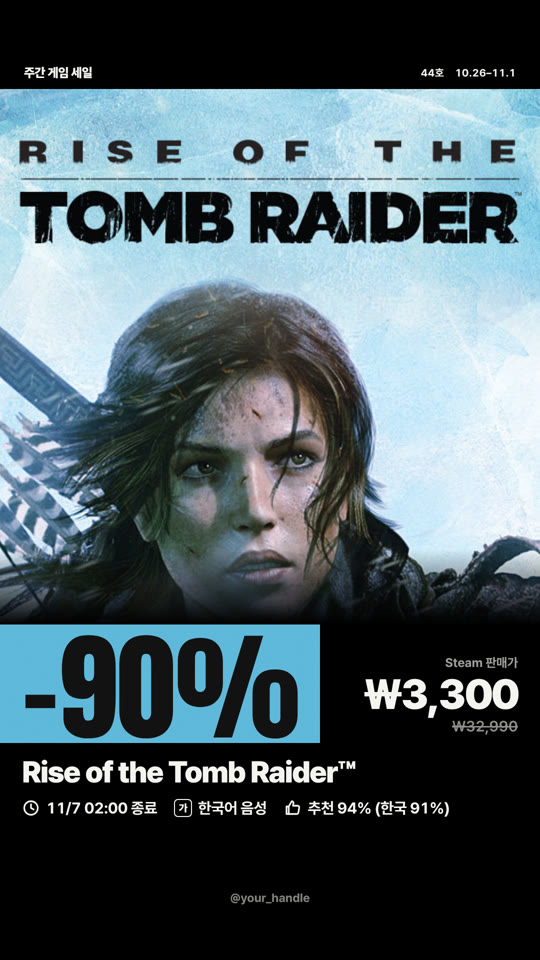
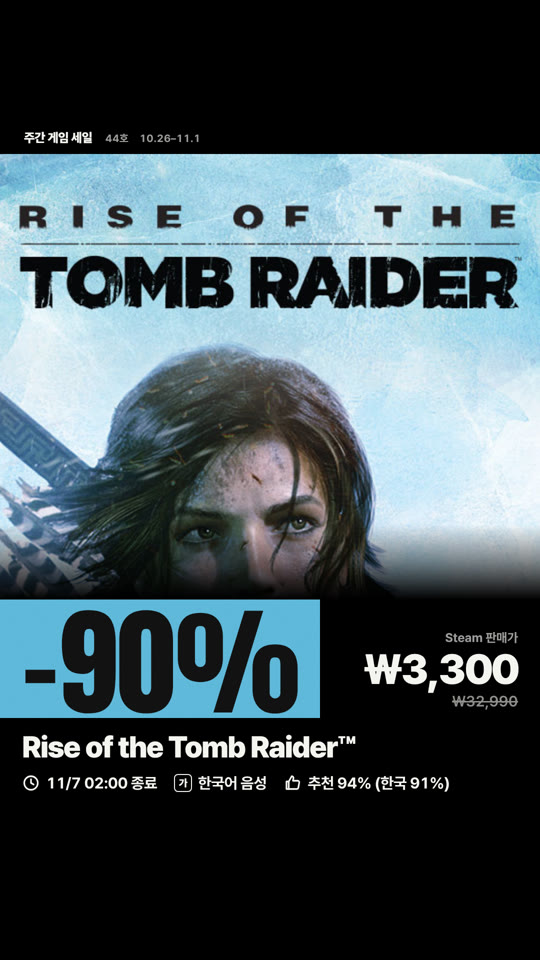
Keep text out of Instagram UI zones
- Feed: credit line moved left (carousel counter sits top-right), cover
  handle raised above the video mute button, slide numbers removed
- Story: content kept below the top 250px and above the bottom 300px
- Reel: content within y 250-1400 and clear of the right icon column;
  removed fake progress bars, shine, middle-dot meta and verdict label
- scripts/check_safe_zones.py overlays the UI zones for review
- dealbot-design skill: safe-zone table and checklist item

Claude-Session: https://claude.ai/code/session_01NNdjnt6woEzMNAanooBr28

diff --git a/scripts/check_safe_zones.py b/scripts/check_safe_zones.py
@@ -1,0 +1,21 @@
+"""인스타 UI 가 덮는 영역(대략)을 빨갛게 칠해 겹침을 확인한다.
+
+사용: python scripts/check_safe_zones.py feed|story|reel 입력.jpg 출력.jpg  (릴스는 ffmpeg 로 프레임을 뽑아서)
+"""
+import sys
+from PIL import Image, ImageDraw
+ZONES = {
+    # 4:5 피드: 장수 표시(오른쪽 위), 영상 음소거 버튼(오른쪽 아래), 사람 태그(왼쪽 아래), 프로필 격자 3:4 잘림(좌우 34px)
+    "feed": [(940, 24, 1056, 84), (980, 1250, 1056, 1326), (24, 1250, 100, 1326), (0, 0, 34, 1350), (1046, 0, 1080, 1350)],
+    # 스토리: 진행 막대·프로필(위 250), 답장 칸(아래 300)
+    "story": [(0, 0, 1080, 250), (0, 1620, 1080, 1920)],
+    # 릴스: 위 250, 아래 520(아이디·캡션·음악), y 900 아래 오른쪽 아이콘 열
+    "reel": [(0, 0, 1080, 250), (0, 1400, 1080, 1920), (920, 900, 1080, 1920)],
+}
+kind, src, dst = sys.argv[1:4]
+im = Image.open(src).convert("RGBA")
+ov = Image.new("RGBA", im.size)
+d = ImageDraw.Draw(ov)
+for z in ZONES[kind]:
+    d.rectangle(z, fill=(255, 0, 60, 110), outline=(255, 0, 60, 255), width=3)
+Image.alpha_composite(im, ov).convert("RGB").resize((im.width // 2, im.height // 2)).save(dst, quality=85)

diff --git a/.claude/skills/dealbot-design/SKILL.md b/.claude/skills/dealbot-design/SKILL.md
@@ -26,6 +26,18 @@ description: 게임 할인 인스타그램 카드(dealbot/templates/poster.html.
 - 요일별 배치: 월 report(숫자판), 화 cinema(와이드 키아트 + 공식 로고), 수 grid(노란 바탕 4칸), 목 duo(2단), 금·토 poster(세로 키아트 + 패널), 일 recap(노란 장부). 새 포맷은 이 중 하나를 쓰거나, 같은 토큰으로 새 배치를 만든다.
 - 순위 숫자(01, 02 …)는 실제로 순서가 있는 목록에만 쓴다.
 
+## 인스타 UI 안전 영역
+
+인스타는 게시물 위에 UI를 항상 띄운다. 글자·가격·로고는 아래 영역에 두지 않는다 (1080px 기준).
+
+| 형식 | 피할 곳 |
+|---|---|
+| 피드 캐러셀 4:5 | 오른쪽 위 장수 표시(1/10): 크레딧 줄은 왼쪽에 모은다. 영상 표지의 오른쪽 아래 음소거 버튼. 프로필 격자는 3:4로 좌우 34px씩 잘림. 슬라이드 번호는 인스타가 보여 주므로 넣지 않는다 |
+| 스토리 9:16 | 위 250px(진행 막대·프로필), 아래 300px(답장 칸) |
+| 릴스 9:16 | 위 250px, 아래 520px(아이디·캡션·음악), y 900 아래 오른쪽 160px(좋아요·댓글·공유) |
+
+확인: `python scripts/check_safe_zones.py feed|story|reel 입력 출력` 으로 덮이는 곳을 빨갛게 칠해 본다.
+
 ## 하지 말 것 (생성형 디자인의 흔한 티)
 
 - 제목 위의 영문 대문자 라벨(eyebrow). 포맷 이름은 한국어 헤드라인이 말한다.
@@ -43,7 +55,8 @@ description: 게임 할인 인스타그램 카드(dealbot/templates/poster.html.
 3. 같은 정보가 두 번 나오지 않는가(가격 블록 ↔ 정보 줄 ↔ 목록 보조 줄).
 4. 신호색이 돈을 아끼는 정보 외에 쓰이지 않았는가.
 5. 글자가 넘치거나 겹치지 않는가(긴 제목은 2줄에서 자른다).
-6. 마지막으로 "액세서리 하나 빼기": 지금 빼도 정보가 줄지 않는 장식이 있으면 뺀다.
+6. `scripts/check_safe_zones.py` 로 피드·스토리·릴스 프레임을 겹쳐 봤을 때 빨간 영역에 글자가 없는가.
+7. 마지막으로 "액세서리 하나 빼기": 지금 빼도 정보가 줄지 않는 장식이 있으면 뺀다.
 
 ## 참고 스킬
 
